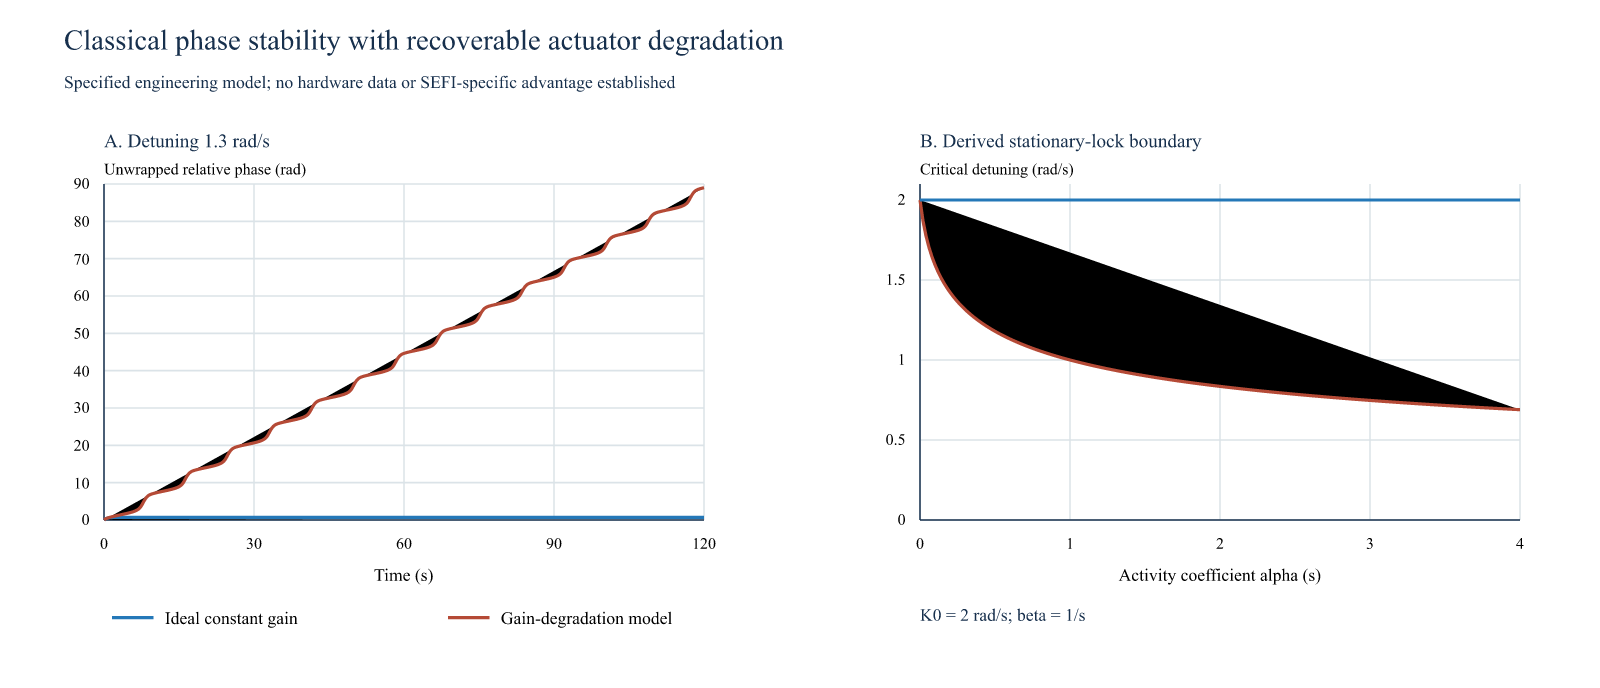
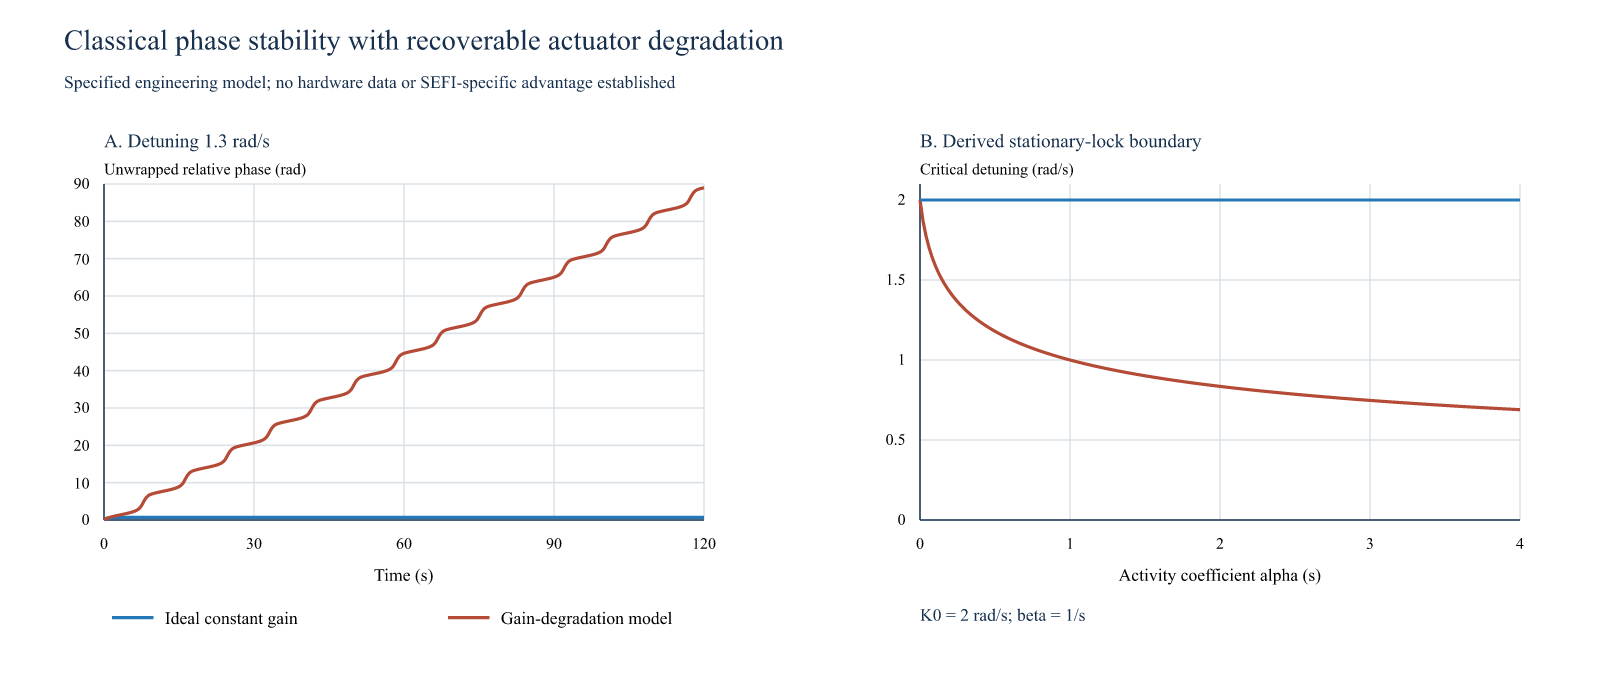
Add dimensionally consistent phase stability research model
Derive a stationary locking criterion with explicit actuator degradation.
Report source ambiguities, added assumptions, 36 trajectories and five checks.
No SEFI-specific advantage or hardware validation claimed.

diff --git a/research/phase-stability-2026-10-22/build_figure.py b/research/phase-stability-2026-10-22/build_figure.py
@@ -26,4 +26,9 @@ plot([(0,2),(4,2)],575,105,375,210,4,2.1,blue)
 for x,col,label in [(70,blue,'Ideal constant gain'),(280,red,'Gain-degradation model')]:
     d.add(Line(x,44,x+26,44,strokeColor=col,strokeWidth=2));d.add(String(x+33,40,label,fontSize=11))
 d.add(String(575,42,'K0 = 2 rad/s; beta = 1/s',fontSize=11,fillColor=navy))
-(P/'figures').mkdir(exist_ok=True);renderSVG.drawToFile(d,str(P/'figures/phase_stability.svg'));print('Scientific SVG figure generated')
+(P/'figures').mkdir(exist_ok=True)
+target=P/'figures/phase_stability.svg'
+renderSVG.drawToFile(d,str(target))
+# ReportLab omits an explicit fill for unfilled polylines; SVG defaults to black.
+target.write_text(target.read_text().replace('fill: None;', 'fill: none;').replace('<polyline ', '<polyline fill="none" '))
+print('Scientific SVG figure generated')
